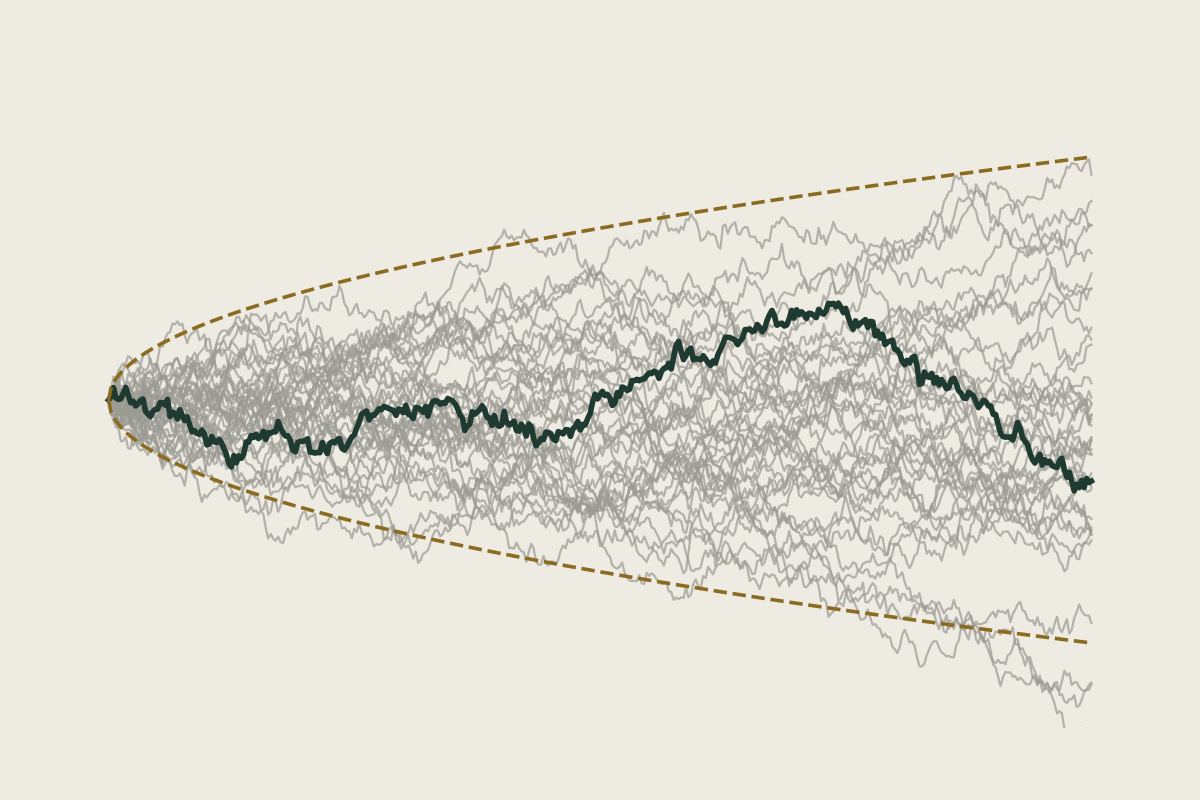
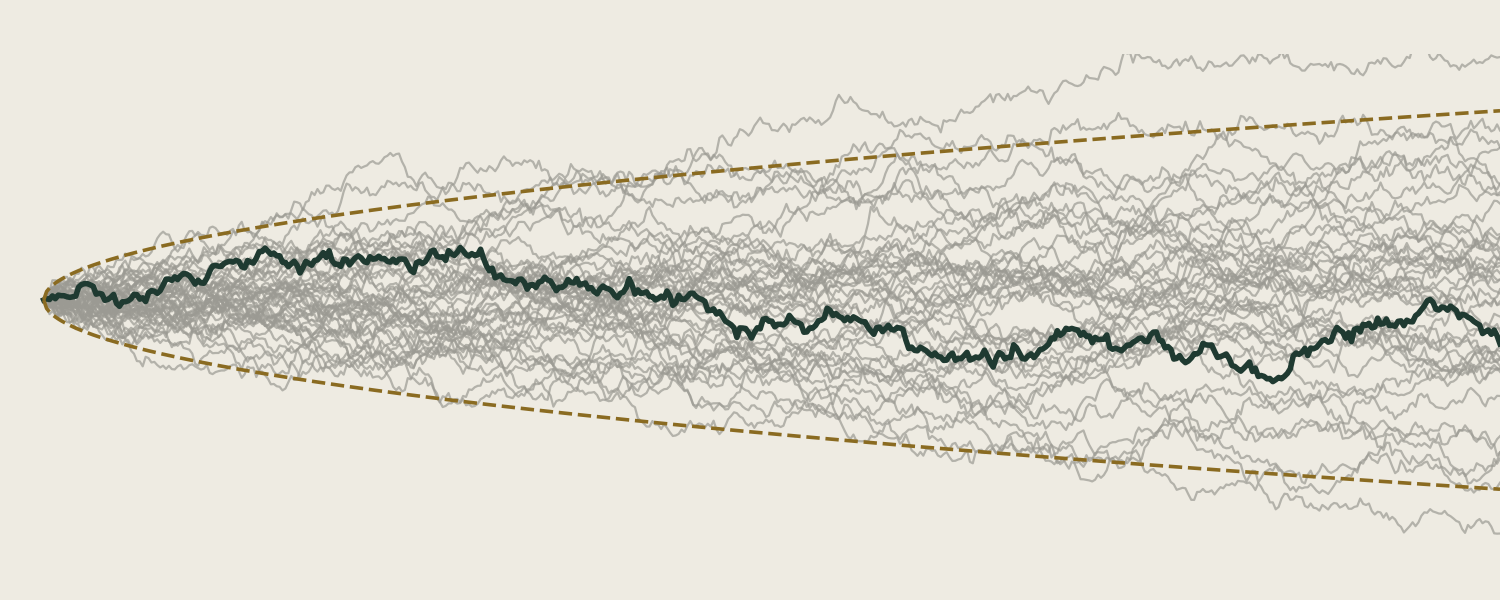
Teaching: wide 5:2 thumbnails, edge-to-edge plots, FitzHugh-Nagumo for approximation methods

diff --git a/teaching.html b/teaching.html
@@ -1,1 +1,1 @@
-<!doctype html><html lang="en"><head><meta charset="utf-8"><meta name="viewport" content="width=device-width, initial-scale=1"><meta name="description" content="Zack Kilpatrick studies the mathematics of decisions, collective behavior, and memory at the University of Colorado Boulder."><meta name="theme-color" content="#1f3a31"><title>Teaching | Zack Kilpatrick</title><link rel="icon" href="assets/mark.svg" type="image/svg+xml"><link rel="stylesheet" href="assets/site.css?v=55"><script defer src="assets/site.js?v=23"></script></head><body class="academic"><a class="skip" href="#main">Skip to content</a><header class="site-header"><a class="brand" href="index.html"><span>Zack Kilpatrick<small>APPLIED MATHEMATICS · UNIVERSITY OF COLORADO BOULDER</small></span></a><button class="menu-button" aria-expanded="false" aria-controls="navigation">Menu</button><nav id="navigation" aria-label="Main navigation"><a href="research.html">Research</a><a href="publications.html">Publications</a><a href="group.html">Group</a><a href="teaching.html" aria-current="page">Teaching</a><a href="demos.html">Demos</a><a href="consulting.html">Consulting</a></nav></header><main id="main"><section class="page-intro wrap"><h1>Teaching</h1><p class="lede">Courses in applied mathematics, computational neuroscience, and mathematical biology. Most courses end with a project on a current research question.</p></section><section class="wrap course-grid"><article class="course"><img class="course-thumb" src="images/teaching/compneuro.png?v=3" alt="" loading="lazy" width="1200" height="800"><p class="eyebrow">APPM 4370 / 5370</p><h2>Computational Neuroscience</h2><p class="course-term">Fall 2026; previously 2024, 2023, 2021, 2020</p><p>Introduces mathematical and computational models of neurons, neural networks, and cognition. Topics include single-neuron dynamics, synaptic plasticity, recurrent network models, and attractor dynamics, with numerical simulation throughout and a final research project. I developed this course and have taught it at CU Boulder since 2020.</p></article><article class="course"><img class="course-thumb" src="images/teaching/markov.png?v=3" alt="" loading="lazy" width="1200" height="800"><p class="eyebrow">APPM 4560 / 5560</p><h2>Markov Processes</h2><p class="course-term">Fall 2026, 2025</p><p>Studies stochastic processes with the Markov property. Topics include discrete- and continuous-time Markov chains, Poisson processes, stationary distributions, and long-run behavior, with applications to models of random systems.</p></article><article class="course"><img class="course-thumb" src="images/teaching/mathbio.png?v=3" alt="" loading="lazy" width="1200" height="800"><p class="eyebrow">APPM 4390 / 5390</p><h2>Mathematical Biology</h2><p class="course-term">Spring 2026</p><p>Introduces mathematical modeling of biological systems. Topics include population dynamics, interacting species, feedback and regulation, and spatial effects, using both analytical and computational methods.</p></article><article class="course"><img class="course-thumb" src="images/teaching/pde.png?v=3" alt="" loading="lazy" width="1200" height="800"><p class="eyebrow">APPM 5470</p><h2>Partial Differential & Integral Equations</h2><p class="course-term">2024, 2020, 2019, 2018</p><p>Covers the theory and solution of partial and integral equations. Topics include classification of equations, analytical solution techniques, and properties of solutions.</p></article><article class="course"><img class="course-thumb" src="images/teaching/nonlinear.png?v=3" alt="" loading="lazy" width="1200" height="800"><p class="eyebrow">APPM 3010</p><h2>Nonlinear Dynamics & Chaos</h2><p class="course-term">Fall 2021</p><p>Introduces the analysis of nonlinear dynamical systems. Topics include stability, bifurcations, limit cycles, and chaos.</p></article><article class="course"><img class="course-thumb" src="images/teaching/approx.png?v=3" alt="" loading="lazy" width="1200" height="800"><p class="eyebrow">APPM 5480</p><h2>Approximation Methods</h2><p class="course-term">Spring 2021</p><p>Covers asymptotic and perturbation methods for problems that cannot be solved exactly. Topics include dominant balance, regular and singular perturbation theory, and reduced descriptions of complex systems.</p></article></section><section class="wrap teaching-note"><h2>Also taught at CU Boulder</h2><dl class="alumni"><div><dt>APPM 3570 <span>Applied Probability</span></dt><dd>Spring 2018, 2017</dd></div><div><dt>APPM 2360 <span>Differential Equations with Linear Algebra</span></dt><dd>Spring 2019</dd></div><div><dt>APPM 4350 <span>Fourier Series &amp; Boundary Value Problems</span></dt><dd>Fall 2016</dd></div></dl></section><section class="wrap teaching-note"><div class="intro-row"><div class="intro-head"><h2>Seminars and the graduate program</h2></div><div><p>I organize <strong>APPM 8400: Mathematical Biology Seminar</strong>, which brings visiting speakers and CU researchers together around mathematical modeling in the life sciences.</p><p>I helped redesign <strong>APPM 7400: Introduction to Research</strong>, and introduced <strong>APPM 7400: Graduate Research Seminar</strong>, so that journal club and student research presentations are part of the first and second years of the PhD program.</p></div></div></section></main><footer><div><a class="footer-name" href="index.html">Zack Kilpatrick</a><p>Professor of Applied Mathematics<br>University of Colorado Boulder</p></div><div><a href="mailto:zpkilpat@colorado.edu">zpkilpat@colorado.edu</a><p><a href="zpk_cv.pdf">CV (PDF)</a> · <a href="https://scholar.google.com/citations?user=w-RYt7kAAAAJ">Google Scholar</a> · <a href="https://github.com/zpkilpat">GitHub</a> · <a href="https://www.linkedin.com/in/zachary-kilpatrick-5b7339397/">LinkedIn</a></p></div><small>© 2026 Zack Kilpatrick</small></footer></body></html>
+<!doctype html><html lang="en"><head><meta charset="utf-8"><meta name="viewport" content="width=device-width, initial-scale=1"><meta name="description" content="Zack Kilpatrick studies the mathematics of decisions, collective behavior, and memory at the University of Colorado Boulder."><meta name="theme-color" content="#1f3a31"><title>Teaching | Zack Kilpatrick</title><link rel="icon" href="assets/mark.svg" type="image/svg+xml"><link rel="stylesheet" href="assets/site.css?v=56"><script defer src="assets/site.js?v=23"></script></head><body class="academic"><a class="skip" href="#main">Skip to content</a><header class="site-header"><a class="brand" href="index.html"><span>Zack Kilpatrick<small>APPLIED MATHEMATICS · UNIVERSITY OF COLORADO BOULDER</small></span></a><button class="menu-button" aria-expanded="false" aria-controls="navigation">Menu</button><nav id="navigation" aria-label="Main navigation"><a href="research.html">Research</a><a href="publications.html">Publications</a><a href="group.html">Group</a><a href="teaching.html" aria-current="page">Teaching</a><a href="demos.html">Demos</a><a href="consulting.html">Consulting</a></nav></header><main id="main"><section class="page-intro wrap"><h1>Teaching</h1><p class="lede">Courses in applied mathematics, computational neuroscience, and mathematical biology. Most courses end with a project on a current research question.</p></section><section class="wrap course-grid"><article class="course"><img class="course-thumb" src="images/teaching/compneuro.png?v=4" alt="" loading="lazy" width="1500" height="600"><p class="eyebrow">APPM 4370 / 5370</p><h2>Computational Neuroscience</h2><p class="course-term">Fall 2026; previously 2024, 2023, 2021, 2020</p><p>Introduces mathematical and computational models of neurons, neural networks, and cognition. Topics include single-neuron dynamics, synaptic plasticity, recurrent network models, and attractor dynamics, with numerical simulation throughout and a final research project. I developed this course and have taught it at CU Boulder since 2020.</p></article><article class="course"><img class="course-thumb" src="images/teaching/markov.png?v=4" alt="" loading="lazy" width="1500" height="600"><p class="eyebrow">APPM 4560 / 5560</p><h2>Markov Processes</h2><p class="course-term">Fall 2026, 2025</p><p>Studies stochastic processes with the Markov property. Topics include discrete- and continuous-time Markov chains, Poisson processes, stationary distributions, and long-run behavior, with applications to models of random systems.</p></article><article class="course"><img class="course-thumb" src="images/teaching/mathbio.png?v=4" alt="" loading="lazy" width="1500" height="600"><p class="eyebrow">APPM 4390 / 5390</p><h2>Mathematical Biology</h2><p class="course-term">Spring 2026</p><p>Introduces mathematical modeling of biological systems. Topics include population dynamics, interacting species, feedback and regulation, and spatial effects, using both analytical and computational methods.</p></article><article class="course"><img class="course-thumb" src="images/teaching/pde.png?v=4" alt="" loading="lazy" width="1500" height="600"><p class="eyebrow">APPM 5470</p><h2>Partial Differential & Integral Equations</h2><p class="course-term">2024, 2020, 2019, 2018</p><p>Covers the theory and solution of partial and integral equations. Topics include classification of equations, analytical solution techniques, and properties of solutions.</p></article><article class="course"><img class="course-thumb" src="images/teaching/nonlinear.png?v=4" alt="" loading="lazy" width="1500" height="600"><p class="eyebrow">APPM 3010</p><h2>Nonlinear Dynamics & Chaos</h2><p class="course-term">Fall 2021</p><p>Introduces the analysis of nonlinear dynamical systems. Topics include stability, bifurcations, limit cycles, and chaos.</p></article><article class="course"><img class="course-thumb" src="images/teaching/approx.png?v=4" alt="" loading="lazy" width="1500" height="600"><p class="eyebrow">APPM 5480</p><h2>Approximation Methods</h2><p class="course-term">Spring 2021</p><p>Covers asymptotic and perturbation methods for problems that cannot be solved exactly. Topics include dominant balance, regular and singular perturbation theory, and reduced descriptions of complex systems.</p></article></section><section class="wrap teaching-note"><h2>Also taught at CU Boulder</h2><dl class="alumni"><div><dt>APPM 3570 <span>Applied Probability</span></dt><dd>Spring 2018, 2017</dd></div><div><dt>APPM 2360 <span>Differential Equations with Linear Algebra</span></dt><dd>Spring 2019</dd></div><div><dt>APPM 4350 <span>Fourier Series &amp; Boundary Value Problems</span></dt><dd>Fall 2016</dd></div></dl></section><section class="wrap teaching-note"><div class="intro-row"><div class="intro-head"><h2>Seminars and the graduate program</h2></div><div><p>I organize <strong>APPM 8400: Mathematical Biology Seminar</strong>, which brings visiting speakers and CU researchers together around mathematical modeling in the life sciences.</p><p>I helped redesign <strong>APPM 7400: Introduction to Research</strong>, and introduced <strong>APPM 7400: Graduate Research Seminar</strong>, so that journal club and student research presentations are part of the first and second years of the PhD program.</p></div></div></section></main><footer><div><a class="footer-name" href="index.html">Zack Kilpatrick</a><p>Professor of Applied Mathematics<br>University of Colorado Boulder</p></div><div><a href="mailto:zpkilpat@colorado.edu">zpkilpat@colorado.edu</a><p><a href="zpk_cv.pdf">CV (PDF)</a> · <a href="https://scholar.google.com/citations?user=w-RYt7kAAAAJ">Google Scholar</a> · <a href="https://github.com/zpkilpat">GitHub</a> · <a href="https://www.linkedin.com/in/zachary-kilpatrick-5b7339397/">LinkedIn</a></p></div><small>© 2026 Zack Kilpatrick</small></footer></body></html>

diff --git a/assets/site.css b/assets/site.css
@@ -60,3 +60,5 @@
 @media(max-width:600px){.faculty-contact{display:block}.portrait{width:100%;max-width:380px;margin:0 0 16px}.faculty-contact p{font-size:13px;line-height:1.7;margin:0 0 16px}.faculty-contact .affiliations{font-size:12px}}
 
 .course-thumb{display:block;width:100%;height:auto;aspect-ratio:3/2;max-height:240px;object-fit:cover;border:1px solid var(--line);margin:0 0 20px}
+
+.course-thumb{aspect-ratio:5/2;max-height:none}
